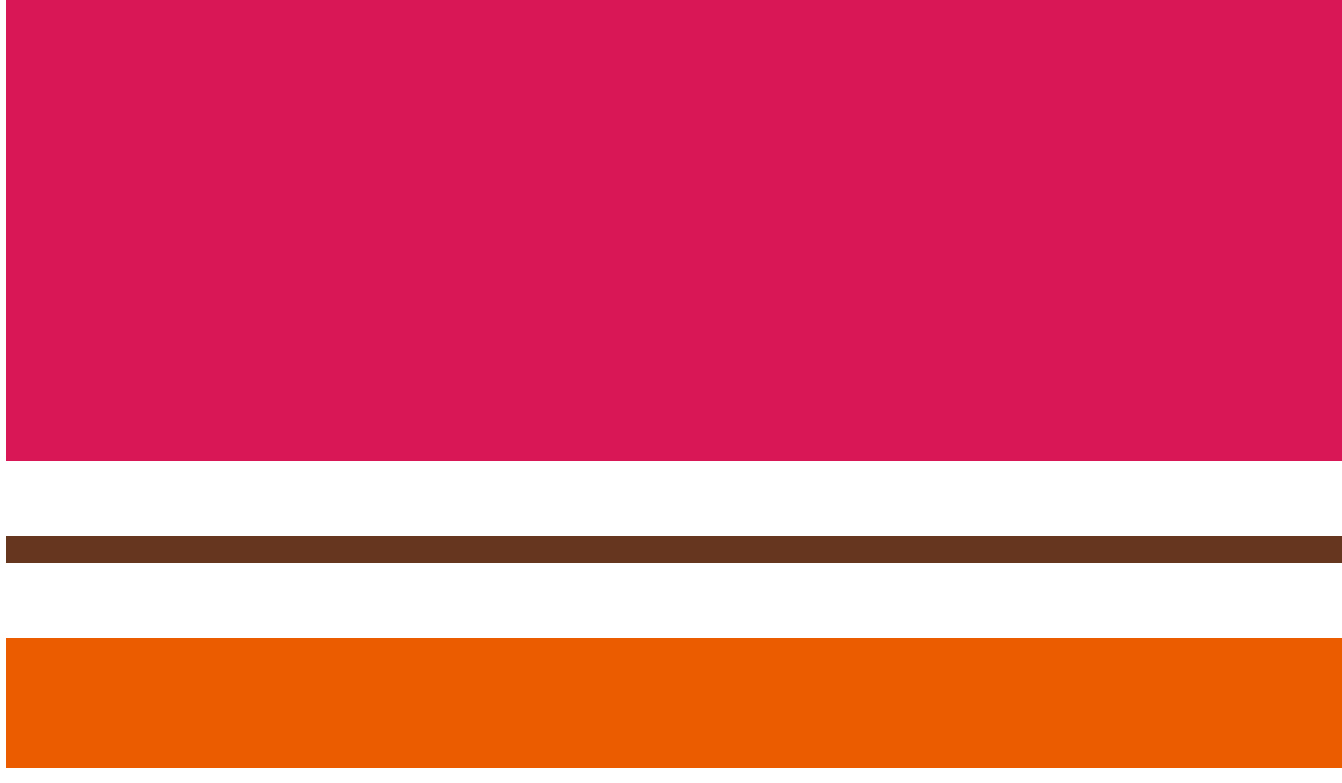
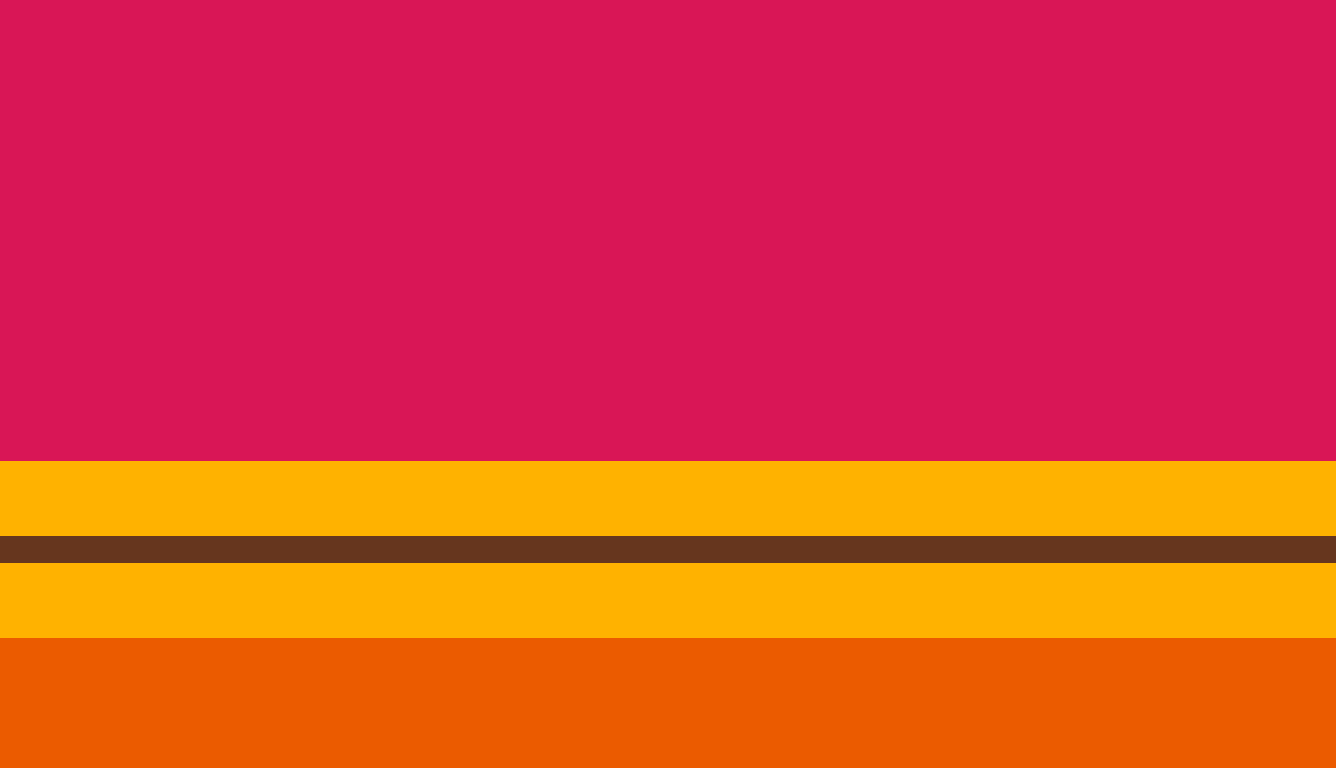
Cambio fondo pantalla y focus en botones

Changed region(s): [[0.0, 0.0, 1.0, 1.0]]

diff --git a/Presentacion/src/main/java/paneles/PanelMenu.java b/Presentacion/src/main/java/paneles/PanelMenu.java
@@ -32,12 +32,6 @@ public class PanelMenu extends JPanel {
 
     // <editor-fold defaultstate="collapsed" desc="Generated
     // <editor-fold defaultstate="collapsed" desc="Generated
-    // <editor-fold defaultstate="collapsed" desc="Generated
-    // <editor-fold defaultstate="collapsed" desc="Generated
-    // <editor-fold defaultstate="collapsed" desc="Generated
-    // <editor-fold defaultstate="collapsed" desc="Generated
-    // <editor-fold defaultstate="collapsed" desc="Generated
-    // <editor-fold defaultstate="collapsed" desc="Generated
     // Code">//GEN-BEGIN:initComponents
     private void initComponents() {
 
@@ -47,6 +41,8 @@ public class PanelMenu extends JPanel {
         jLabel1 = new javax.swing.JLabel();
 
         setBackground(new java.awt.Color(255, 178, 0));
+        setMaximumSize(new java.awt.Dimension(1336, 768));
+        setMinimumSize(new java.awt.Dimension(1336, 768));
 
         try {
             // Carga la fuente desde el classpath (resources/fuentes/Voltaire-Regular.ttf)
@@ -61,6 +57,7 @@ public class PanelMenu extends JPanel {
             // Si falla, usa la fuente por defecto
             etiquetaTituloMenu.setFont(new java.awt.Font("Serif", Font.PLAIN, 128));
         }
+
         etiquetaTituloMenu.setForeground(new java.awt.Color(206, 232, 13));
         etiquetaTituloMenu.setHorizontalAlignment(javax.swing.SwingConstants.CENTER);
         etiquetaTituloMenu.setText("LOTERIA MEXICANA");
@@ -69,11 +66,15 @@ public class PanelMenu extends JPanel {
         buttonCrearSala.setFont(new java.awt.Font("Segoe UI Black", 1, 36)); // NOI18N
         buttonCrearSala.setForeground(new java.awt.Color(255, 255, 255));
         buttonCrearSala.setText("Crear Sala");
+        buttonCrearSala.setCursor(new java.awt.Cursor(java.awt.Cursor.HAND_CURSOR));
+        buttonCrearSala.setFocusPainted(false);
 
         buttonBuscarSala.setBackground(new java.awt.Color(100, 13, 95));
         buttonBuscarSala.setFont(new java.awt.Font("Segoe UI Black", 1, 36)); // NOI18N
         buttonBuscarSala.setForeground(new java.awt.Color(255, 255, 255));
         buttonBuscarSala.setText("Buscar Sala");
+        buttonBuscarSala.setCursor(new java.awt.Cursor(java.awt.Cursor.HAND_CURSOR));
+        buttonBuscarSala.setFocusPainted(false);
         buttonBuscarSala.addActionListener(new java.awt.event.ActionListener() {
             public void actionPerformed(java.awt.event.ActionEvent evt) {
                 buttonBuscarSalaActionPerformed(evt);
@@ -81,7 +82,7 @@ public class PanelMenu extends JPanel {
         });
 
         jLabel1.setIcon(new javax.swing.ImageIcon(getClass().getResource("/iconos/interrogacion.png"))); // NOI18N
-        jLabel1.setCursor(new java.awt.Cursor(java.awt.Cursor.HAND_CURSOR));
+        jLabel1.setCursor(new java.awt.Cursor(java.awt.Cursor.DEFAULT_CURSOR));
 
         javax.swing.GroupLayout layout = new javax.swing.GroupLayout(this);
         this.setLayout(layout);
@@ -108,15 +109,15 @@ public class PanelMenu extends JPanel {
         layout.setVerticalGroup(
                 layout.createParallelGroup(javax.swing.GroupLayout.Alignment.LEADING)
                         .addGroup(layout.createSequentialGroup()
-                                .addGap(46, 46, 46)
+                                .addGap(71, 71, 71)
                                 .addComponent(etiquetaTituloMenu)
-                                .addGap(44, 44, 44)
+                                .addGap(70, 70, 70)
                                 .addComponent(buttonCrearSala, javax.swing.GroupLayout.PREFERRED_SIZE, 70,
                                         javax.swing.GroupLayout.PREFERRED_SIZE)
                                 .addGap(34, 34, 34)
                                 .addComponent(buttonBuscarSala, javax.swing.GroupLayout.PREFERRED_SIZE, 69,
                                         javax.swing.GroupLayout.PREFERRED_SIZE)
-                                .addPreferredGap(javax.swing.LayoutStyle.ComponentPlacement.RELATED, 416,
+                                .addPreferredGap(javax.swing.LayoutStyle.ComponentPlacement.RELATED, 365,
                                         Short.MAX_VALUE)
                                 .addComponent(jLabel1)
                                 .addContainerGap()));
